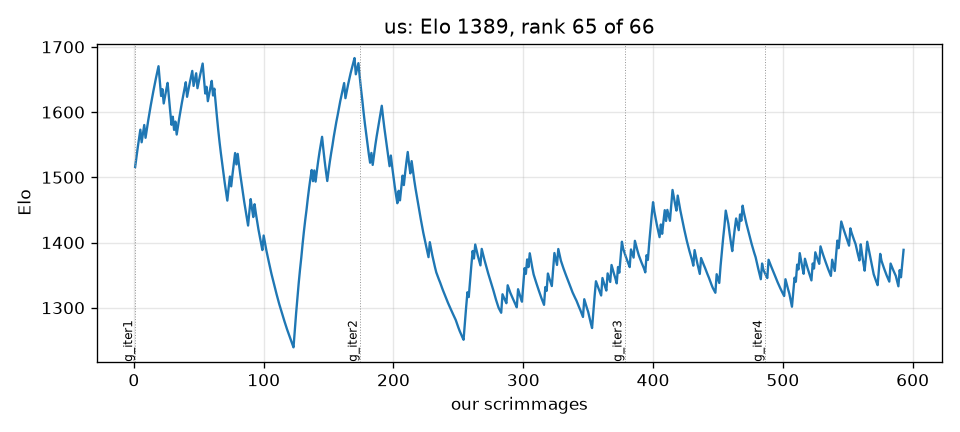
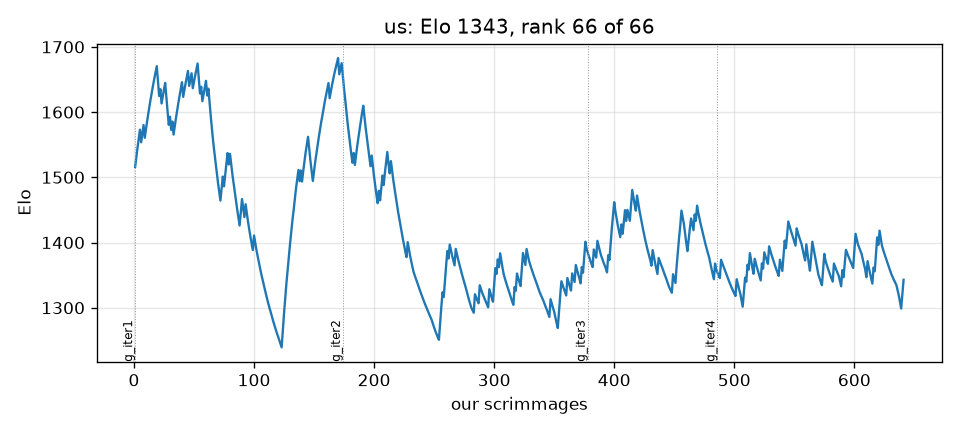
Iteration 13 diagnostics won both (second school fires); gate 13 launched; block 12 logged
Claude-Session: https://claude.ai/code/session_01CTUHPRaZ9DbYUkpWKYf2Y2

diff --git a/src/bot/Miner.java b/src/bot/Miner.java
@@ -83,7 +83,7 @@ public strictfp class Miner extends Robot {
             }
             if (best != null) perch = best;
         }
-        if (perch == null) { if (floodDanger()) climb(); return; }
+        if (perch == null) { if (floodDanger() && climb()) return; if (Nav.cheb(loc, home) > C.PARK_RADIUS) { nav.setTarget(home); nav.step(); } return; }   // out of sight of the perches: come home first
         if (!loc.equals(perch)) { if (floodDanger() && climb()) return; nav.setTarget(perch); nav.step(); if (loc.equals(perch)) Debug.log("@perched at=" + perch + " e=" + rc.senseElevation(perch)); }
     }
 
@@ -93,7 +93,7 @@ public strictfp class Miner extends Robot {
         RobotType want = null;
         if (builtRefinery == 0 && soup >= RobotType.REFINERY.cost) want = RobotType.REFINERY;
         else if (builtRefinery > 0 && builtSchool == 0 && soup >= RobotType.DESIGN_SCHOOL.cost) want = RobotType.DESIGN_SCHOOL;
-        else if (builtSchool > 0 && builtVap < C.VAPORATORS_MAX && soup >= C.VAPORATOR_BANK) want = RobotType.VAPORATOR;
+        else if (builtSchool > 0 && builtVap < C.VAPORATORS_MAX && soup >= C.VAPORATOR_BANK && round < C.VAPORATOR_LAST_ROUND) want = RobotType.VAPORATOR;   // Iteration 13: no vaporator that cannot pay back before the flood
         else if (builtVap > 0 && builtFC == 0 && soup >= C.FC_BANK + RobotType.FULFILLMENT_CENTER.cost) want = RobotType.FULFILLMENT_CENTER;   // Iteration 2's early center gated at 52%: back to after the first vaporator
         else if (builtVap > 0 && builtNet < C.NETGUNS_MAX && soup >= C.NETGUN_BANK + RobotType.NET_GUN.cost) want = RobotType.NET_GUN;
         if (want == null) return false;

diff --git a/src/bot/C.java b/src/bot/C.java
@@ -36,6 +36,7 @@ public final class C {
     public static final int WALL_LANDSCAPERS = 8;     // one per ring tile
     // Iteration 13: the second school. The builder parks on high dry ground from PARK_ROUND and, once the first school
     // has drowned, spends the idle bank on a new school whose landscapers fill the remaining distance-2 posts.
+    public static final int VAPORATOR_LAST_ROUND = 300;   // a vaporator (500) pays 2 a round and drowns at r700: nothing built after this ever pays back
     public static final int PARK_ROUND = 600;         // the builder stops mining and climbs to the highest dry tile within PARK_RADIUS of the HQ
     public static final int PARK_RADIUS = 4;
     public static final int SECOND_SCHOOL_ROUND = 720;   // water 3.2: the first school (elevation 3-4) is gone or going

diff --git a/BENCHMARK.md b/BENCHMARK.md
@@ -54,14 +54,14 @@ every recorded block; the tier is the most recent build's record against that op
 | `ARognes.flyingturtlebot` | ARognes_Battlecode (2ebba1e) | - | - | untested |  |
 | `AllenWang314.bot1` | AllenWang314_Battlecode (3b90f73) | 100 | 5 | peer(>90 once) | 100 |
 | `AllenWang314.lecMod2` | AllenWang314_Battlecode (3b90f73) | - | - | untested |  |
-| `AngusRitossa.newbot` | AngusRitossa_battlecode20 (c9ad5c7) | 14 | 7 | locked | 0 8 0 14 |
+| `AngusRitossa.newbot` | AngusRitossa_battlecode20 (c9ad5c7) | 9 | 11 | locked | 0 8 0 9 |
 | `AngusRitossa.okbot` | AngusRitossa_battlecode20 (c9ad5c7) | - | - | untested |  |
 | `EmaPajic.Mark1` | EmaPajic_Battlecode-2020 (c060a22) | - | - | untested |  |
 | `EmaPajic.Mark2` | EmaPajic_Battlecode-2020 (c060a22) | - | - | untested |  |
 | `EmaPajic.Mark3` | EmaPajic_Battlecode-2020 (c060a22) | - | - | untested |  |
 | `EmaPajic.Mark4` | EmaPajic_Battlecode-2020 (c060a22) | - | - | untested |  |
 | `EmaPajic.Mark5` | EmaPajic_Battlecode-2020 (c060a22) | - | - | untested |  |
-| `EmaPajic.Qualifications` | EmaPajic_Battlecode-2020 (c060a22) | 0 | 5 | locked | 20 0 14 0 |
+| `EmaPajic.Qualifications` | EmaPajic_Battlecode-2020 (c060a22) | 0 | 7 | locked | 20 0 14 0 |
 | `EmaPajic.SeedingBot` | EmaPajic_Battlecode-2020 (c060a22) | - | - | untested |  |
 | `GabrielDWu.basicbot` | GabrielDWu_blezers-battlecode2020 (c0283f8) | - | - | untested |  |
 | `GabrielDWu.blezerbot` | GabrielDWu_blezers-battlecode2020 (c0283f8) | - | - | untested |  |
@@ -79,7 +79,7 @@ every recorded block; the tier is the most recent build's record against that op
 | `IvanGeffner.dronecrunchplus` | IvanGeffner_battlecode2020 (bc7dbca) | - | - | untested |  |
 | `IvanGeffner.ecoplayer` | IvanGeffner_battlecode2020 (bc7dbca) | - | - | untested |  |
 | `IvanGeffner.ecoplus` | IvanGeffner_battlecode2020 (bc7dbca) | - | - | untested |  |
-| `IvanGeffner.finalbota` | IvanGeffner_battlecode2020 (bc7dbca) | 12 | 8 | locked | 0 8 14 12 |
+| `IvanGeffner.finalbota` | IvanGeffner_battlecode2020 (bc7dbca) | 25 | 12 | target | 0 8 14 25 |
 | `IvanGeffner.finalbotb` | IvanGeffner_battlecode2020 (bc7dbca) | - | - | untested |  |
 | `IvanGeffner.finalbotc` | IvanGeffner_battlecode2020 (bc7dbca) | - | - | untested |  |
 | `IvanGeffner.landscaperop` | IvanGeffner_battlecode2020 (bc7dbca) | - | - | untested |  |
@@ -158,8 +158,8 @@ every recorded block; the tier is the most recent build's record against that op
 | `anthonybench.redemptionplayer` | anthonybench_MITBattleCode-2020 (38fbb99) | - | - | untested |  |
 | `arya-k.donothing` | arya-k_bc20 (1b969b3) | - | - | untested |  |
 | `atliSig.buttletplayer` | atliSig_battlecode20-scaffold (b64b063) | 100 | 1 | peer(>90 once) | 100 |
-| `awesomelemonade.citricsky` | awesomelemonade_Battlecode2020 (7a50e66) | 0 | 7 | locked | 0 0 14 0 |
-| `battlecode20-team4.finalbota` | battlecode20-team4_battlecode20-scaffold (1cee065) | 25 | 8 | target | 0 8 43 25 |
+| `awesomelemonade.citricsky` | awesomelemonade_Battlecode2020 (7a50e66) | 0 | 10 | locked | 0 0 14 0 |
+| `battlecode20-team4.finalbota` | battlecode20-team4_battlecode20-scaffold (1cee065) | 18 | 11 | locked | 0 8 43 18 |
 | `battlecode20-team4.team4enemy` | battlecode20-team4_battlecode20-scaffold (1cee065) | - | - | untested |  |
 | `battlecode20-team4.team4player` | battlecode20-team4_battlecode20-scaffold (1cee065) | - | - | untested |  |
 | `battlecode.lectureplayer` | battlecode_lectureplayer (2836576) | - | - | untested |  |
@@ -170,11 +170,11 @@ every recorded block; the tier is the most recent build's record against that op
 | `benzyx.espada` | benzyx_bc20-waterloo (05df2e7) | - | - | untested |  |
 | `benzyx.firstplayer` | benzyx_bc20-waterloo (05df2e7) | - | - | untested |  |
 | `benzyx.kurobot` | benzyx_bc20-waterloo (05df2e7) | - | - | untested |  |
-| `benzyx.seeding` | benzyx_bc20-waterloo (05df2e7) | 38 | 8 | target | 25 17 86 38 |
+| `benzyx.seeding` | benzyx_bc20-waterloo (05df2e7) | 33 | 9 | target | 25 17 86 33 |
 | `benzyx.tortuga` | benzyx_bc20-waterloo (05df2e7) | - | - | untested |  |
 | `charboltron.master_player` | charboltron_pdx_battlecode_2020_team_11 (f78f1e3) | - | - | untested |  |
 | `charboltron.team11newbot` | charboltron_pdx_battlecode_2020_team_11 (f78f1e3) | 100 | 1 | peer(>90 once) | 100 |
-| `cormackikkert.whyPermutator` | cormackikkert_battlecode2020 (4d230c4) | 43 | 7 | target | 25 17 14 43 |
+| `cormackikkert.whyPermutator` | cormackikkert_battlecode2020 (4d230c4) | 44 | 9 | target | 25 17 14 44 |
 | `cormackikkert.whyPermutatorOld` | cormackikkert_battlecode2020 (4d230c4) | - | - | untested |  |
 | `cosimogonnelli.Team3player` | cosimogonnelli_CS454-554-SE (d7dc657) | 80 | 5 | peer | 80 |
 | `cs454-w20-team3.oldbot` | cs454-w20-team3_team3-bot (502c334) | - | - | untested |  |
@@ -202,7 +202,7 @@ every recorded block; the tier is the most recent build's record against that op
 | `kylittle.deliriumv1` | kylittle_DeliriumBattlecode (17a94dd) | - | - | untested |  |
 | `kylittle.qualsbot` | kylittle_DeliriumBattlecode (17a94dd) | - | - | untested |  |
 | `kylittle.qualsbot2` | kylittle_DeliriumBattlecode (17a94dd) | 100 | 1 | peer(>90 once) | 100 |
-| `laurenschneider.pdx_team_one` | laurenschneider_battlecode20-PDXTeamOne (2965376) | 14 | 7 | locked | 0 50 43 14 |
+| `laurenschneider.pdx_team_one` | laurenschneider_battlecode20-PDXTeamOne (2965376) | 18 | 11 | locked | 0 50 43 18 |
 | `lfchain.bigBudsBot` | lfchain_Battlecode2020 (b026153) | 100 | 1 | peer(>90 once) | 100 |
 | `lfchain.fBot` | lfchain_Battlecode2020 (b026153) | - | - | untested |  |
 | `lfchain.jBot` | lfchain_Battlecode2020 (b026153) | - | - | untested |  |
@@ -245,7 +245,7 @@ every recorded block; the tier is the most recent build's record against that op
 | `mvpatel2000.oldhades` | mvpatel2000_Battlecode2020 (554943e) | - | - | untested |  |
 | `mvpatel2000.poseidon` | mvpatel2000_Battlecode2020 (554943e) | - | - | untested |  |
 | `mvpatel2000.quail` | mvpatel2000_Battlecode2020 (554943e) | - | - | untested |  |
-| `mvpatel2000.qual` | mvpatel2000_Battlecode2020 (554943e) | 0 | 7 | locked | 0 8 43 0 |
+| `mvpatel2000.qual` | mvpatel2000_Battlecode2020 (554943e) | 20 | 10 | target | 0 8 43 20 |
 | `mvpatel2000.qualAttacc` | mvpatel2000_Battlecode2020 (554943e) | - | - | untested |  |
 | `mvpatel2000.qualNoAtacc` | mvpatel2000_Battlecode2020 (554943e) | - | - | untested |  |
 | `mvpatel2000.seeding` | mvpatel2000_Battlecode2020 (554943e) | - | - | untested |  |
@@ -279,10 +279,10 @@ every recorded block; the tier is the most recent build's record against that op
 | `poortho.rush` | poortho_battlecode-2020 (ebbd61e) | - | - | untested |  |
 | `poortho.rush_bot` | poortho_battlecode-2020 (ebbd61e) | - | - | untested |  |
 | `poortho.stable_miner1` | poortho_battlecode-2020 (ebbd61e) | - | - | untested |  |
-| `poortho.stable_seeding_bot` | poortho_battlecode-2020 (ebbd61e) | 57 | 7 | peer | 0 17 29 57 |
+| `poortho.stable_seeding_bot` | poortho_battlecode-2020 (ebbd61e) | 45 | 11 | target | 0 17 29 45 |
 | `ps789.dennisTestPlayer` | ps789_AZBattlecode (f1d54ab) | - | - | untested |  |
 | `ps789.phillipTestPlayer` | ps789_AZBattlecode (f1d54ab) | - | - | untested |  |
-| `ronniesong0809.finalbota` | ronniesong0809_battlecode20-RADS (1cee065) | 12 | 8 | locked | 0 18 0 12 |
+| `ronniesong0809.finalbota` | ronniesong0809_battlecode20-RADS (1cee065) | 8 | 12 | locked | 0 18 0 8 |
 | `ronniesong0809.team4enemy` | ronniesong0809_battlecode20-RADS (1cee065) | - | - | untested |  |
 | `ronniesong0809.team4player` | ronniesong0809_battlecode20-RADS (1cee065) | - | - | untested |  |
 | `rsandzimier.PlayerAlpha` | rsandzimier_battlecode2020 (8d856c3) | - | - | untested |  |
@@ -292,7 +292,7 @@ every recorded block; the tier is the most recent build's record against that op
 | `rzhan11.kryptonite` | rzhan11_Battlecode2020 (3cc4b50) | - | - | untested |  |
 | `rzhan11.landscaper_rush_bot` | rzhan11_Battlecode2020 (3cc4b50) | - | - | untested |  |
 | `rzhan11.orig_rush_bot` | rzhan11_Battlecode2020 (3cc4b50) | - | - | untested |  |
-| `rzhan11.quals_bot` | rzhan11_Battlecode2020 (3cc4b50) | 14 | 7 | locked | 0 17 0 14 |
+| `rzhan11.quals_bot` | rzhan11_Battlecode2020 (3cc4b50) | 9 | 11 | locked | 0 17 0 9 |
 | `rzhan11.rush_bot` | rzhan11_Battlecode2020 (3cc4b50) | - | - | untested |  |
 | `rzhan11.seeding` | rzhan11_Battlecode2020 (3cc4b50) | - | - | untested |  |
 | `rzhan11.sprint` | rzhan11_Battlecode2020 (3cc4b50) | - | - | untested |  |
@@ -309,7 +309,7 @@ every recorded block; the tier is the most recent build's record against that op
 | `uvafan.v12_quals_bot` | uvafan_bc20 (86fe290) | - | - | untested |  |
 | `uvafan.v12_quals_bot_tuned` | uvafan_bc20 (86fe290) | - | - | untested |  |
 | `uvafan.v13_post_quals` | uvafan_bc20 (86fe290) | - | - | untested |  |
-| `uvafan.v14_final_bot` | uvafan_bc20 (86fe290) | 0 | 8 | locked | 0 8 0 0 |
+| `uvafan.v14_final_bot` | uvafan_bc20 (86fe290) | 0 | 12 | locked | 0 8 0 0 |
 | `uvafan.v14_final_bot_tuned` | uvafan_bc20 (86fe290) | - | - | untested |  |
 | `uvafan.v2_better_turtle` | uvafan_bc20 (86fe290) | - | - | untested |  |
 | `uvafan.v3_lattice` | uvafan_bc20 (86fe290) | - | - | untested |  |
@@ -325,9 +325,9 @@ every recorded block; the tier is the most recent build's record against that op
 | `willBoyd8.droideka` | willBoyd8_BattleDroid (4b1d4ad) | - | - | untested |  |
 | `willBoyd8.empire` | willBoyd8_BattleDroid (4b1d4ad) | - | - | untested |  |
 | `willBoyd8.mouse` | willBoyd8_BattleDroid (4b1d4ad) | - | - | untested |  |
-| `winkelmantanner.tannerplayer` | winkelmantanner_battlecode2020_the-levee-builders (7f49f11) | 43 | 7 | target | 0 25 17 43 |
+| `winkelmantanner.tannerplayer` | winkelmantanner_battlecode2020_the-levee-builders (7f49f11) | 33 | 9 | target | 0 25 17 33 |
 | `wpine215.stardustv1` | wpine215_battlecode (d570d57) | - | - | untested |  |
-| `wpine215.stardustv2` | wpine215_battlecode (d570d57) | 71 | 7 | peer | 0 30 29 71 |
+| `wpine215.stardustv2` | wpine215_battlecode (d570d57) | 64 | 11 | peer | 0 30 29 64 |
 | `yaonam.Robot_1` | yaonam_battlecode2020 (bb363f5) | 62 | 8 | peer | 62 |
 
 285 bot packages from 68 repositories.

diff --git a/progress/ONSET.md b/progress/ONSET.md
@@ -1,6 +1,6 @@
 # Which metric starts predicting the result first
 
-19 games, 8 wins. Noise floor about 0.46; a correlation inside that band is not evidence.
+20 games, 8 wins. Noise floor about 0.45; a correlation inside that band is not evidence.
 
 Every metric is oriented so **higher is better for us**, so a positive correlation always means
 "this being better goes with winning". `~avg` is the running mean over all rounds so far rather than
@@ -12,46 +12,46 @@ See `progress/METRICS.md` for how each quantity is computed.
 
 | onset | anti | metric | peak corr | r100 | r200 | r300 | r400 | r600 | r900 |
 |---|---|---|---|---|---|---|---|---|---|
-| r50 | - | robots (us-them) | +0.52 | +0.33 | +0.38 | +0.47 | +0.46 | +0.51 | +0.48 |
-| r50 | - | robots (us-them) ~avg | +0.55 | +0.35 | +0.37 | +0.55 | +0.54 | +0.54 | +0.53 |
-| r50 | - | spawned (us-them) | +0.56 | +0.34 | +0.38 | +0.56 | +0.51 | +0.48 | +0.45 |
-| r50 | - | spawned (us-them) ~avg | +0.58 | +0.35 | +0.37 | +0.57 | +0.58 | +0.55 | +0.51 |
-| r50 | - | units (us-them) | +0.59 | +0.27 | +0.36 | +0.43 | +0.45 | +0.53 | +0.53 |
-| r50 | - | units (us-them) ~avg | +0.58 | +0.31 | +0.33 | +0.49 | +0.49 | +0.54 | +0.58 |
-| r150 | - | landscapers (us-them) | +0.72 | +0.28 | +0.36 | +0.32 | +0.37 | +0.47 | +0.70 |
-| r150 | - | landscapers (us-them) ~avg | +0.69 | +0.28 | +0.38 | +0.40 | +0.40 | +0.45 | +0.69 |
-| r200 | - | pickups (us-them) | +0.61 | +0.19 | +0.35 | +0.49 | +0.56 | +0.61 | +0.48 |
-| r200 | - | pickups (us-them) ~avg | +0.60 | +0.19 | +0.32 | +0.41 | +0.50 | +0.59 | +0.54 |
-| r300 | - | drones (us-them) | +0.43 | +0.09 | +0.29 | +0.32 | +0.22 | +0.43 | +0.37 |
-| r300 | - | drones (us-them) ~avg | +0.43 | +0.09 | +0.22 | +0.40 | +0.34 | +0.42 | +0.37 |
-| r300 | - | miners (us-them) ~avg | +0.38 | +0.23 | +0.21 | +0.37 | +0.36 | +0.37 | +0.34 |
-| r300 | - | mines (us-them) | +0.50 | +0.15 | +0.17 | +0.41 | +0.45 | +0.50 | +0.47 |
-| r300 | - | mines (us-them) ~avg | +0.49 | +0.14 | +0.19 | +0.45 | +0.45 | +0.49 | +0.47 |
-| r300 | r50 | moves (us-them) | -0.53 | -0.29 | +0.07 | +0.32 | +0.26 | +0.24 | +0.33 |
-| r300 | - | worth (us-them) | +0.49 | +0.19 | +0.32 | +0.47 | +0.41 | +0.49 | +0.43 |
-| r300 | - | worth (us-them) ~avg | +0.50 | +0.18 | +0.28 | +0.50 | +0.48 | +0.48 | +0.47 |
-| r350 | - | miners (us-them) | +0.38 | +0.12 | +0.19 | +0.28 | +0.31 | +0.36 | +0.32 |
-| r500 | - | died (us-them) [inverted] | +0.51 | -0.19 | +0.09 | +0.08 | +0.15 | +0.51 | +0.28 |
-| r500 | - | digs (us-them) | +0.64 | -0.10 | +0.09 | +0.17 | +0.24 | +0.39 | +0.62 |
-| r500 | - | dirtDeps (us-them) | +0.59 | -0.11 | +0.08 | +0.19 | +0.24 | +0.39 | +0.58 |
-| r550 | - | vaporators (us-them) | +0.37 | -0.10 | -0.12 | +0.19 | +0.19 | +0.32 | +0.36 |
-| r600 | - | died (us-them) [inverted] ~avg | +0.40 | -0.19 | +0.03 | +0.14 | +0.15 | +0.32 | +0.40 |
-| r600 | - | digs (us-them) ~avg | +0.55 | -0.11 | +0.07 | +0.13 | +0.20 | +0.31 | +0.55 |
-| r600 | - | dirtDeps (us-them) ~avg | +0.52 | -0.13 | +0.06 | +0.15 | +0.20 | +0.31 | +0.52 |
-| r800 | - | vaporators (us-them) ~avg | +0.36 | -0.10 | -0.15 | +0.08 | +0.13 | +0.23 | +0.33 |
-| r850 | - | netguns (us-them) | +0.34 | . | . | . | +0.18 | . | +0.30 |
-| r1050 | - | cov (us-them) | -0.40 | -0.01 | -0.36 | +0.05 | +0.05 | +0.27 | +0.29 |
-| r1200 | - | soup (us-them) | +0.34 | -0.27 | +0.21 | +0.34 | +0.02 | +0.33 | -0.31 |
-| - | r900 | aba (us-them) [inverted] | -0.40 | -0.15 | -0.20 | -0.17 | -0.01 | +0.23 | -0.31 |
-| - | r950 | aba (us-them) [inverted] ~avg | -0.39 | -0.17 | -0.23 | -0.31 | -0.17 | +0.06 | -0.23 |
-| - | r200 | cov (us-them) ~avg | -0.36 | -0.14 | -0.33 | -0.23 | -0.11 | +0.09 | +0.16 |
+| r100 | - | cov (us-them) ~avg | +0.35 | +0.35 | +0.21 | +0.15 | +0.13 | +0.09 | +0.07 |
+| r100 | - | miners (us-them) ~avg | +0.31 | +0.30 | +0.30 | +0.11 | +0.10 | -0.03 | -0.19 |
+| r100 | - | vaporators (us-them) | +0.41 | +0.41 | +0.27 | +0.22 | +0.19 | +0.11 | +0.07 |
+| r100 | - | vaporators (us-them) ~avg | +0.41 | +0.41 | +0.32 | +0.27 | +0.22 | +0.16 | +0.11 |
+| r200 | - | mines (us-them) | +0.30 | +0.22 | +0.30 | +0.18 | +0.14 | +0.10 | +0.10 |
+| r200 | - | worth (us-them) | +0.34 | +0.07 | +0.31 | +0.28 | +0.21 | +0.11 | +0.05 |
+| - | r450 | aba (us-them) [inverted] | -0.41 | -0.06 | -0.18 | -0.12 | -0.28 | -0.37 | -0.09 |
+| - | r550 | aba (us-them) [inverted] ~avg | -0.33 | -0.06 | -0.17 | -0.11 | -0.20 | -0.33 | -0.26 |
+| - | - | cov (us-them) | +0.35 | +0.35 | +0.05 | +0.10 | +0.10 | +0.03 | +0.04 |
+| - | r500 | died (us-them) [inverted] | -0.41 | . | +0.07 | +0.06 | -0.11 | -0.30 | -0.40 |
+| - | r750 | died (us-them) [inverted] ~avg | -0.37 | . | +0.12 | +0.12 | +0.03 | -0.22 | -0.36 |
+| - | r100 | digs (us-them) | -0.41 | -0.36 | -0.25 | +0.06 | +0.06 | +0.09 | +0.06 |
+| - | r100 | digs (us-them) ~avg | -0.44 | -0.36 | -0.33 | -0.07 | +0.02 | +0.06 | +0.06 |
+| - | r100 | dirtDeps (us-them) | -0.45 | -0.37 | -0.28 | +0.05 | +0.08 | +0.12 | +0.08 |
+| - | r100 | dirtDeps (us-them) ~avg | -0.47 | -0.37 | -0.36 | -0.10 | +0.02 | +0.09 | +0.10 |
+| - | - | drones (us-them) | -0.26 | -0.10 | +0.14 | -0.09 | -0.23 | -0.23 | -0.04 |
+| - | - | drones (us-them) ~avg | -0.20 | -0.10 | +0.06 | -0.00 | -0.10 | -0.20 | -0.12 |
 | - | - | drowned (us-them) [inverted] | . | . | . | . | . | . | . |
 | - | - | drowned (us-them) [inverted] ~avg | . | . | . | . | . | . | . |
-| - | r350 | hqBuried (us-them) [inverted] | -0.34 | +0.19 | . | . | -0.34 | -0.34 | . |
-| - | r300 | hqBuried (us-them) [inverted] ~avg | -0.34 | +0.19 | . | -0.34 | -0.34 | -0.34 | . |
-| - | r50 | moves (us-them) ~avg | -0.51 | -0.41 | -0.01 | +0.26 | +0.27 | +0.26 | +0.27 |
-| - | - | netguns (us-them) ~avg | +0.29 | . | . | . | +0.18 | +0.18 | +0.25 |
-| - | r50 | soup (us-them) ~avg | -0.38 | -0.33 | -0.10 | +0.15 | +0.14 | +0.22 | -0.05 |
+| - | - | hqBuried (us-them) [inverted] | . | . | . | . | . | . | . |
+| - | - | hqBuried (us-them) [inverted] ~avg | . | . | . | . | . | . | . |
+| - | - | landscapers (us-them) | +0.28 | -0.24 | +0.12 | +0.19 | +0.16 | +0.17 | +0.17 |
+| - | - | landscapers (us-them) ~avg | -0.24 | -0.24 | -0.01 | +0.15 | +0.17 | +0.24 | +0.21 |
+| - | r750 | miners (us-them) | -0.33 | +0.29 | +0.22 | -0.15 | +0.05 | -0.19 | -0.33 |
+| - | - | mines (us-them) ~avg | +0.24 | +0.15 | +0.21 | +0.23 | +0.20 | +0.15 | +0.12 |
+| - | - | moves (us-them) | +0.27 | +0.24 | +0.15 | +0.09 | +0.08 | -0.06 | -0.05 |
+| - | - | moves (us-them) ~avg | +0.27 | +0.24 | +0.22 | +0.14 | +0.11 | +0.02 | -0.04 |
+| - | - | netguns (us-them) | +0.26 | . | . | +0.19 | +0.19 | +0.17 | +0.05 |
+| - | - | netguns (us-them) ~avg | +0.19 | . | . | +0.19 | +0.19 | +0.19 | +0.06 |
+| - | r600 | pickups (us-them) | -0.31 | . | +0.22 | +0.06 | -0.15 | -0.30 | -0.23 |
+| - | - | pickups (us-them) ~avg | -0.27 | . | +0.26 | +0.16 | +0.03 | -0.21 | -0.25 |
+| - | - | robots (us-them) | +0.23 | +0.09 | +0.23 | +0.11 | +0.12 | -0.00 | +0.01 |
+| - | - | robots (us-them) ~avg | +0.20 | +0.11 | +0.19 | +0.18 | +0.17 | +0.07 | +0.02 |
+| - | - | soup (us-them) | +0.24 | -0.08 | -0.05 | +0.08 | +0.06 | +0.22 | +0.00 |
+| - | - | soup (us-them) ~avg | +0.18 | -0.08 | -0.07 | +0.00 | +0.03 | +0.14 | +0.16 |
+| - | - | spawned (us-them) | +0.24 | +0.09 | +0.24 | +0.11 | +0.16 | +0.07 | +0.09 |
+| - | - | spawned (us-them) ~avg | +0.19 | +0.11 | +0.18 | +0.17 | +0.18 | +0.13 | +0.10 |
+| - | - | units (us-them) | +0.22 | +0.09 | +0.22 | +0.03 | +0.05 | -0.05 | -0.00 |
+| - | - | units (us-them) ~avg | +0.19 | +0.14 | +0.19 | +0.15 | +0.12 | +0.04 | -0.00 |
+| - | - | worth (us-them) ~avg | +0.29 | +0.05 | +0.23 | +0.29 | +0.26 | +0.17 | +0.09 |
 
 **Reading it.** Earliest onset is the first place to look: temporal precedence is the one causal hint a
 correlation can honestly give. Late-onset metrics are usually the scoreboard rather than the cause -- by then

diff --git a/progress/ELO.md b/progress/ELO.md
@@ -1,22 +1,22 @@
 # Elo ladder
 
-593 scrimmages (ours only); K=32 from 1500; our team is **us**: rank 65 of 66 rated bots, Elo 1389, 593 games; 0 bots not yet met.
+641 scrimmages (ours only); K=32 from 1500; our team is **us**: rank 66 of 66 rated bots, Elo 1343, 641 games; 0 bots not yet met.
 
 | rank | bot | Elo | games | W-L (theirs) |
 |---|---|---|---|---|
-| 1 | awesomelemonade.citricsky | 1689 | 30 | 29-1 |
-| 2 | EmaPajic.Qualifications | 1682 | 29 | 27-2 |
-| 3 | AngusRitossa.newbot | 1680 | 30 | 28-2 |
-| 4 | uvafan.v14_final_bot | 1677 | 30 | 29-1 |
-| 5 | IvanGeffner.finalbota | 1647 | 31 | 28-3 |
-| 6 | ronniesong0809.finalbota | 1646 | 30 | 27-3 |
-| 7 | rzhan11.quals_bot | 1633 | 30 | 27-3 |
-| 8 | mvpatel2000.qual | 1629 | 30 | 26-4 |
-| 9 | battlecode20-team4.finalbota | 1560 | 31 | 25-6 |
-| 10 | cormackikkert.whyPermutator | 1553 | 30 | 23-7 |
-| 11 | laurenschneider.pdx_team_one | 1524 | 30 | 20-10 |
-| 12 | winkelmantanner.tannerplayer | 1523 | 29 | 22-7 |
-| 13 | poortho.stable_seeding_bot | 1514 | 30 | 22-8 |
+| 1 | awesomelemonade.citricsky | 1703 | 33 | 32-1 |
+| 2 | AngusRitossa.newbot | 1699 | 34 | 32-2 |
+| 3 | uvafan.v14_final_bot | 1693 | 34 | 33-1 |
+| 4 | EmaPajic.Qualifications | 1691 | 31 | 29-2 |
+| 5 | ronniesong0809.finalbota | 1668 | 34 | 31-3 |
+| 6 | rzhan11.quals_bot | 1655 | 34 | 31-3 |
+| 7 | IvanGeffner.finalbota | 1611 | 35 | 30-5 |
+| 8 | battlecode20-team4.finalbota | 1584 | 34 | 28-6 |
+| 9 | mvpatel2000.qual | 1583 | 33 | 27-6 |
+| 10 | winkelmantanner.tannerplayer | 1538 | 31 | 24-7 |
+| 11 | cormackikkert.whyPermutator | 1538 | 32 | 24-8 |
+| 12 | poortho.stable_seeding_bot | 1527 | 34 | 25-9 |
+| 13 | laurenschneider.pdx_team_one | 1524 | 34 | 23-11 |
 | 14 | ovimura.welovesoup | 1491 | 1 | 0-1 |
 | 15 | TeamSerpentine.eendagsvliegjes | 1491 | 1 | 0-1 |
 | 16 | orionquick.aldebaranplayer | 1491 | 1 | 0-1 |
@@ -57,16 +57,16 @@
 | 51 | yaonam.Robot_1 | 1474 | 8 | 3-5 |
 | 52 | VinayaBhat.team10pdx | 1472 | 7 | 2-5 |
 | 53 | Tim-gubski.AngryWaffleMaker | 1463 | 7 | 2-5 |
-| 54 | denver-blake.sprint | 1454 | 5 | 0-5 |
-| 55 | KyleHassold.sprintbot | 1448 | 5 | 0-5 |
-| 56 | benzyx.seeding | 1444 | 31 | 19-12 |
+| 54 | benzyx.seeding | 1456 | 32 | 20-12 |
+| 55 | denver-blake.sprint | 1454 | 5 | 0-5 |
+| 56 | KyleHassold.sprintbot | 1448 | 5 | 0-5 |
 | 57 | J-J-Chen.player | 1441 | 5 | 0-5 |
-| 58 | wpine215.stardustv2 | 1440 | 28 | 18-10 |
-| 59 | AllenWang314.bot1 | 1435 | 5 | 0-5 |
-| 60 | GabrielDWu.buildawall2 | 1432 | 5 | 0-5 |
-| 61 | cs454-w20-team3.playbot | 1431 | 10 | 4-6 |
-| 62 | A9ine.potato | 1424 | 5 | 0-5 |
+| 58 | AllenWang314.bot1 | 1435 | 5 | 0-5 |
+| 59 | GabrielDWu.buildawall2 | 1432 | 5 | 0-5 |
+| 60 | cs454-w20-team3.playbot | 1431 | 10 | 4-6 |
+| 61 | A9ine.potato | 1424 | 5 | 0-5 |
+| 62 | wpine215.stardustv2 | 1416 | 32 | 20-12 |
 | 63 | 9mAhmad.lostincoordinates | 1412 | 5 | 0-5 |
 | 64 | 9mAhmad.MahinBot | 1398 | 5 | 0-5 |
-| 65 | **us** | 1389 | 593 | 197-396 |
-| 66 | mhahn2003.nonrush | 1387 | 21 | 9-12 |
+| 65 | mhahn2003.nonrush | 1387 | 21 | 9-12 |
+| 66 | **us** | 1343 | 641 | 206-435 |

diff --git a/TRAINING_LOG.md b/TRAINING_LOG.md
@@ -498,7 +498,22 @@ tile within Chebyshev 2-4 of the HQ (it must survive the flood); (b) from `SECON
 tile that will stay above the water for 150 rounds; the school's landscapers walk to free
 distance-2 posts (dry at elevation 4-5 until r930-1210) and keep them dry themselves. Diagnostic:
 Prison and CentralLake vs g_iter4 -- `@build t=4` after r700, landscapers at the wall at r1500
-above the incumbent's, ring at r2500 higher. Gate `gate13` vs `REF=g_iter4`. Falsifier: below 53%.
+above the incumbent's, ring at r2500 higher.
+
+Diagnostics: the first run never perched (the perch search only looked at tiles in sight, and the
+builder was mining far away; it drowned on CentralLake) and yet CentralLake was a rout, 2301 vs
+1442 -- the parked builder no longer sank the late soup into vaporators and a center that drown at
+r700, and the school turned it into landscapers instead. Two fixes: the builder walks home when no
+perch is in sight, and no vaporator is built after r300 (`VAPORATOR_LAST_ROUND`: 2 soup a round
+on 500 cannot pay back before the flood). Rerun: Prison flipped to a win (perched r619 at 5; second
+school r966 with 2,205 soup, 13 landscapers r900-1000; ring 1672 vs 1590), CentralLake 2380 vs
+1675. Gate `gate13` vs `REF=g_iter4`, launched 00:45. Falsifier: below 53%.
+
+## Block 12 -- g_iter4 against the challenge pool (run block12, 2026-09-24)
+
+48 games: **9/48 (19%)**. `mvpatel2000.qual` 2/3, `wpine215` 2/4, `IvanGeffner` 2/4; cumulative for
+g_iter4 34/156 (22%). The provisional raid has not paid on the ladder; if gate 13 accepts, its
+snapshot supersedes it anyway.
 
 ## Block 5 -- g_iter2 against the challenge pool (run block5, 2026-09-23)
 
